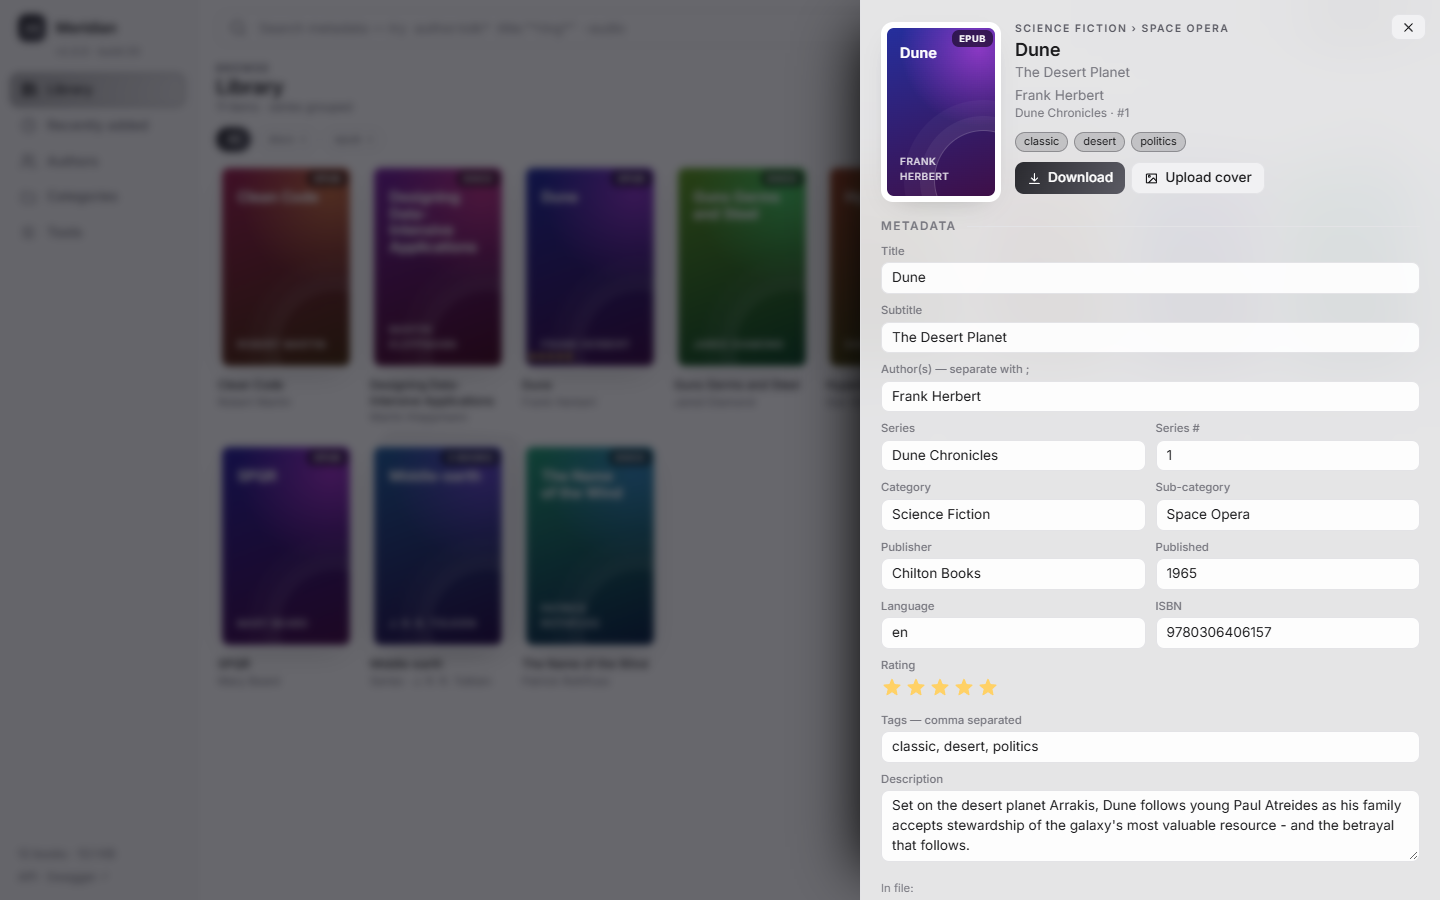
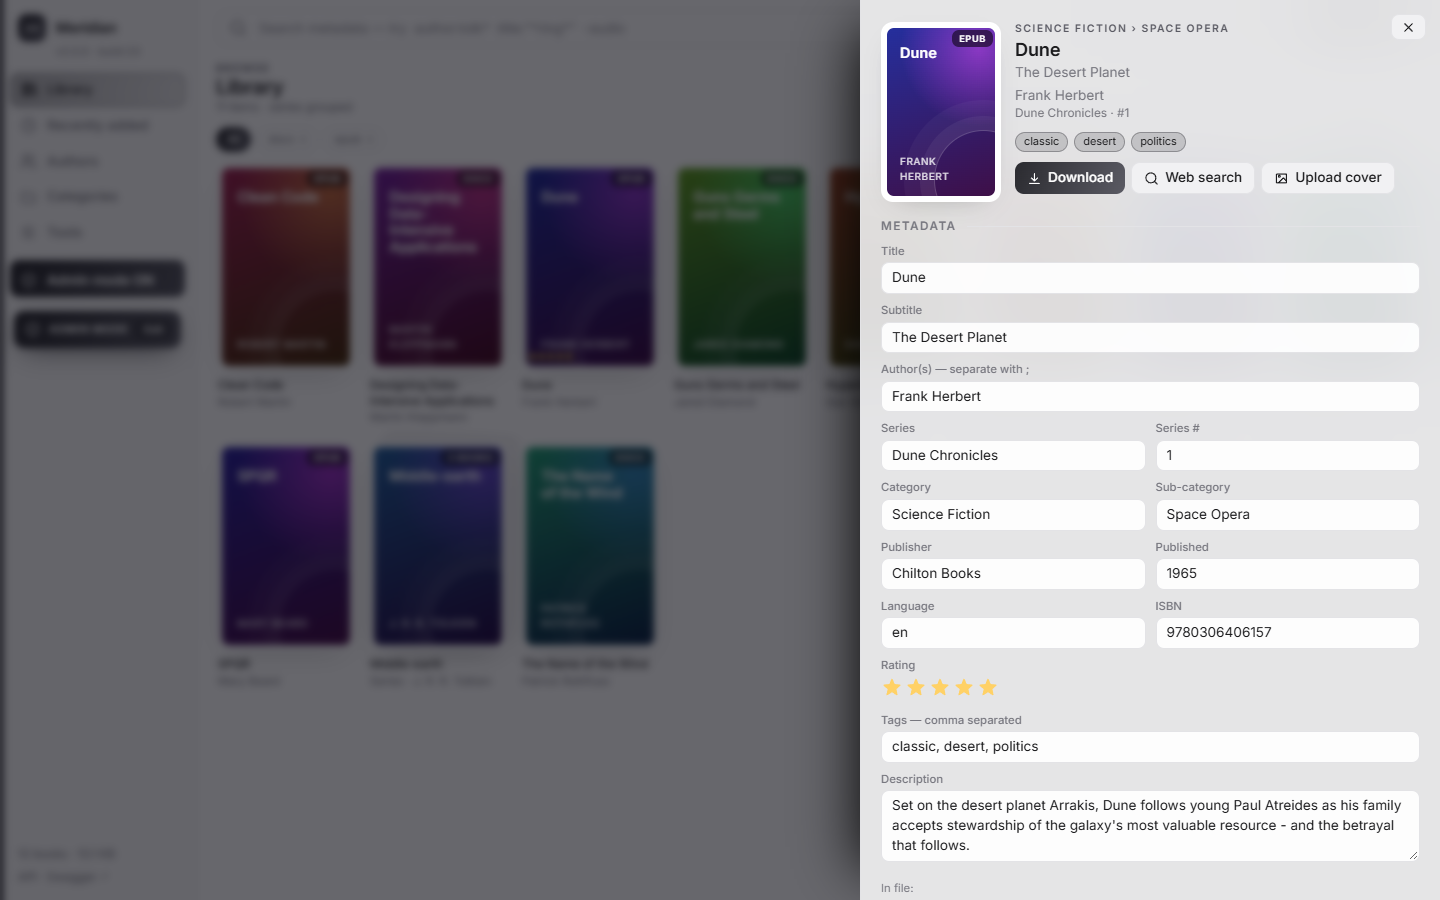
updated readme

Changed region(s): [[0.0, 0.0, 0.125, 1.0], [0.7812, 0.1867, 0.9688, 0.2178]]

diff --git a/app/static/css/app.css b/app/static/css/app.css
@@ -389,6 +389,7 @@ body.auth-on:not(.is-admin) .admin-only { display: none !important; }
 .admin-badge { display: flex; align-items: center; gap: 8px; margin: 0 4px; padding: 8px 10px; border-radius: 10px; color: var(--on-accent); font-weight: 700; font-size: 0.75rem; letter-spacing: .06em; white-space: nowrap;
   background: linear-gradient(110deg, var(--a1), var(--a2)); box-shadow: 0 8px 26px -10px var(--a1); }
 .admin-badge[hidden] { display: none; }
+.dialog h2 svg { width: 1.1em; height: 1.1em; vertical-align: -0.15em; margin-right: 4px; }
 .admin-badge svg { width: 17px; height: 17px; flex: none; }
 .admin-badge span { flex: 1; }
 .admin-badge button { all: unset; cursor: pointer; font-size: 0.6875rem; letter-spacing: .04em; padding: 3px 8px; border-radius: 7px; background: rgba(0,0,0,.22); }

diff --git a/scripts/capture_screenshots.py b/scripts/capture_screenshots.py
@@ -9,6 +9,9 @@ to run unless that library is empty:
     python scripts/capture_screenshots.py                       # terminal 2
 
 Options: --url http://127.0.0.1:8000   --browser msedge|chrome|chromium
+         --admin-user U --admin-password P   when the demo server has admin mode on (ADMIN_USER / ADMIN_PASSWORD):
+                                             the script logs in through the UI, so the shots show the full admin view,
+                                             and it also writes admin-login.png (the login dialog)
 """
 import argparse
 import sys
@@ -43,7 +46,7 @@ DUNE = dict(
 )
 
 
-def seed(api: str) -> None:
+def seed(api: str, auth=None) -> None:
     from tests.conftest import make_docx, make_epub  # tiny generated books; no real titles are shipped
 
     if httpx.get(f"{api}/stats").json()["books"]:
@@ -57,16 +60,16 @@ def seed(api: str) -> None:
         name = title.lower().replace(" ", "-") + "." + ext
         files.append(("files", (name, data)))
         paths.append(f"Books/{cat}/{name}")
-    r = httpx.post(f"{api}/books/upload-folder", files=files, data={"relative_paths": paths}, timeout=120)
+    r = httpx.post(f"{api}/books/upload-folder", files=files, data={"relative_paths": paths}, timeout=120, auth=auth)
     r.raise_for_status()
     ids = {b["title"]: b["id"] for b in httpx.get(f"{api}/books", params={"limit": 100}).json()["items"]}
     for _, title, _, series, idx in DEMO:
         extra = DUNE if title == "Dune" else {}
         if series or extra:
-            httpx.patch(f"{api}/books/{ids[title]}", json={"series": series, "series_index": idx, **extra}).raise_for_status()
+            httpx.patch(f"{api}/books/{ids[title]}", json={"series": series, "series_index": idx, **extra}, auth=auth).raise_for_status()
 
 
-def capture(base: str, browser: str) -> None:
+def capture(base: str, browser: str, creds=None) -> None:
     from playwright.sync_api import sync_playwright
 
     OUT.mkdir(parents=True, exist_ok=True)
@@ -79,6 +82,17 @@ def capture(base: str, browser: str) -> None:
             pg.goto(base + "/#/library")
             pg.wait_for_selector("mx-card")
             pg.wait_for_timeout(900)  # covers and web fonts
+            if creds:
+                pg.click(".admin-nav")
+                pg.fill("#lg-user", creds[0])
+                pg.fill("mx-login input[type=password]", creds[1])
+                if theme == "vanilla" and not (OUT / "_login_done").exists():
+                    pg.wait_for_timeout(300)
+                    pg.screenshot(path=str(OUT / "admin-login.png"))
+                    (OUT / "_login_done").write_text("")
+                pg.click("#lg-go")
+                pg.wait_for_selector("body.is-admin")
+                pg.wait_for_timeout(4500)  # let the "Admin mode on" toast fade out
             return pg
 
         pg = open_library("vanilla")
@@ -92,16 +106,20 @@ def capture(base: str, browser: str) -> None:
         pg.wait_for_timeout(700)
         pg.screenshot(path=str(OUT / "themes-settings.png"))
         launch.close()
+    (OUT / "_login_done").unlink(missing_ok=True)
 
 
 def main() -> None:
     ap = argparse.ArgumentParser(description=__doc__, formatter_class=argparse.RawDescriptionHelpFormatter)
     ap.add_argument("--url", default="http://127.0.0.1:8000")
     ap.add_argument("--browser", default="msedge", help="msedge, chrome or chromium (Playwright's own build)")
+    ap.add_argument("--admin-user", default="")
+    ap.add_argument("--admin-password", default="")
     a = ap.parse_args()
     base = a.url.rstrip("/")
-    seed(base + "/api")
-    capture(base, a.browser)
+    creds = (a.admin_user, a.admin_password) if a.admin_user else None
+    seed(base + "/api", creds)
+    capture(base, a.browser, creds)
     print("Wrote", ", ".join(sorted(f.name for f in OUT.glob("*.png"))), "to", OUT)
 
 

diff --git a/README.md b/README.md
@@ -8,8 +8,10 @@ Runs in one container, including on a Raspberry Pi.
 *One bullet per feature - add or remove lines as the app changes. Details live in [Features](#features).*
 
 **Library**
-* Upload files, whole folders (recursive) or `.zip` archives; EPUB, PDF, DOCX, MOBI, AZW3, FB2, TXT, CBZ and more
-* Plex-style cover wall with infinite scroll and series grouping, plus Authors, Categories and Recently added views
+* **Admin mode**: everyone can browse, but uploading, editing and deleting need a login (user and password from environment variables)
+* Upload files, whole folders (recursive) or `.zip` archives; EPUB, PDF, DOCX, MOBI, AZW3, FB2, TXT, CBZ and more; give a whole upload a category and a series
+* Plex-style cover wall with infinite scroll and series grouping (with a *Series only* switch), plus Authors, Categories and Recently added views
+* **Fast covers**: small `book-name_thumb.jpg` thumbnails, loaded after the tiles appear; *Tools > Refresh thumbnails* rebuilds them all
 * **List view**: a sortable table with every metadata column (choice remembered per browser)
 * **Bulk edit**: select many rows and change category, tags, author and more in one go, or run a clean-up (Title Case, find/replace, trim...) on a field, with a progress bar
 * **Delete** one book or many (with a clear warning first); the files and any emptied folders are removed from disk too
@@ -35,13 +37,13 @@ Runs in one container, including on a Raspberry Pi.
 **Deployment**
 * Docker Compose with a configurable data folder, port and run-as user; restarts after a reboot
 * Works fully offline: fonts and the Swagger page are bundled, so the app never contacts another host
-* No built-in authentication - put it behind a reverse proxy or VPN before exposing it
+* Admin mode protects changes only; reading is open, so put it behind a reverse proxy (HTTPS) or VPN before exposing it
 
 ## Screenshots
 
 <!-- Images live in docs/screenshots/. Regenerate them with scripts/capture_screenshots.py (see Development), or replace a file with the same name; no README edit needed. -->
 
-**Library** - the landing page: a cover wall with format filters, category and sort controls, and a search box that accepts wildcards and field scopes. Books without an embedded cover get a generated one, and a series (here *Middle-earth*) can be collapsed into one stacked tile.
+**Library** - the landing page: a cover wall with format filters, category and sort controls, and a search box that accepts wildcards and field scopes. Books without an embedded cover get a generated one, and a series (here *Middle-earth*) can be collapsed into one stacked tile, and the *Series only* switch hides books that are not in a series. The sidebar shows that admin mode is on.
 
 ![Library view with a wall of book covers and a stacked series tile](docs/screenshots/library.png)
 
@@ -52,6 +54,10 @@ Runs in one container, including on a Raspberry Pi.
 **Settings** - choose one of ten themes (shown here: Aurora, one of the dark ones), the font and text size, the cover border thickness, and whether series are grouped. Settings are saved per browser.
 
 ![Settings panel with theme picker, font, text size and cover border controls](docs/screenshots/themes-settings.png)
+
+**Admin mode** - without a login the app is read-only. Click *Admin mode* in the left menu and sign in with the user and password you set in the environment; the menu then shows an *ADMIN MODE* badge.
+
+![Admin mode login dialog](docs/screenshots/admin-login.png)
 
 ## Setting up the data folder
 
@@ -168,11 +174,12 @@ mkdir -p data
 
 | Requirement | How it works |
 |---|---|
-| Upload EPUB, PDF, DOCX, MOBI, AZW3, FB2, TXT, CBZ… | `POST /api/books/upload` (see `app/config.py` for the full list) |
-| Upload whole folders recursively | `POST /api/books/upload-folder` takes files plus their relative paths (the UI uses the browser directory picker or drag-and-drop of folders). `.zip` archives are expanded recursively. `POST /api/import` imports a folder already on the server. Folder names can become categories. |
+| Admin mode (access control) | Reading is open. Every route that changes the library (upload, edit, rename, covers, delete, bulk edit, cleanup, server import, thumbnail rebuild) needs admin mode, otherwise it answers `401`. Set `ADMIN_USER` and `ADMIN_PASSWORD` (`MERIDIAN_ADMIN_USER` / `MERIDIAN_ADMIN_PASSWORD` in `.env` for Docker Compose); if either is empty, nothing is restricted. In the UI use *Admin mode* in the left menu (12-hour session, `Exit` to leave). Scripts and Swagger's **Authorize** button use the same user and password as HTTP Basic credentials; `POST /api/auth/login` sets the cookie the UI uses. Five wrong passwords lock a client out for a minute. |
+| Upload EPUB, PDF, DOCX, MOBI, AZW3, FB2, TXT, CBZ… | `POST /api/books/upload` (see `app/config.py` for the full list). The Add books dialog can also set a **category** and a **series** for the whole upload (`category`, `series` form fields); a series given here replaces any series the file already has. |
+| Upload whole folders recursively | `POST /api/books/upload-folder` takes files plus their relative paths (the UI uses the browser directory picker or drag-and-drop of folders; Chrome asks "Upload N files to this site?" for the picker, which a page cannot turn off, while dropping a folder does not). `.zip` archives are expanded recursively. `POST /api/import` imports a folder already on the server. Folder names can become categories. |
 | Import metadata JSON | Upload `*.json` (e.g. an exported `book-name-info.json`) alone, in a folder, in a `.zip`, or from the server import folder. It is matched to the book by `id`, then title (case-insensitive), then file name. **Books are always processed before JSON files.** Empty fields are filled in; if the JSON would change a value the book already has, nothing is applied and you get a `warning` listing each field's current vs. imported value. Tick "overwrite" (`overwrite_json=true`) to apply anyway. A category that was merely inferred from the upload folder name does not count as an existing value. |
 | Replace the cover | `PUT /api/books/{id}/cover` (or "Upload cover" in the book panel). Saved as `book-name-cover.jpg` in the book's folder, next to `book-name-info.json`, and always shown instead of the embedded cover. The book file is untouched, the cover follows the file on rename and is included in the ZIP export. `DELETE /api/books/{id}/cover` reverts to the embedded cover. |
-| Plex-like browser | Library is the landing page (format/category/sort filters, infinite scroll, series shown as one stacked tile that opens the series), Recently added, Authors, Categories, generated covers when a book has none, detail drawer |
+| Plex-like browser | Library is the landing page (format/category/sort filters, a *Series only* switch (`in_series=true`), infinite scroll, series shown as one stacked tile that opens the series), Recently added, Authors, Categories, generated covers when a book has none, detail drawer |
 | List view and bulk edit | The grid/list switch above the library toggles a table with one column per metadata field; click a heading to sort by it. A coloured dot per row shows the cover's predominant colour (`GET /api/books/colors`). Tick rows (shift-click for a range, or "Select all N" for everything matching the current filter) and press **Bulk edit** to set category, sub-category, tags (add or replace), author, series, publisher, published, language or rating on all of them. It is saved in batches with a percent-complete bar; **Stop** cancels after the current batch. API: `POST /api/books/bulk-update`. The **Advanced** tab of the same dialog cleans up one field instead: pick the field, then an operation - lowercase, uppercase, capitalize, Title Case, replace words (leave "replace with" empty to remove them; whole words and match-case options), collapse multiple spaces, or trim - and press **Run**. The dialog closes and the progress bar appears above the table. Tags are transformed tag by tag, and books that would not change are not rewritten. API: `POST /api/books/bulk-transform`. |
 | Metadata search with wildcards | `GET /api/books?q=…` - `*` and `?` wildcards, `author:`/`title:`/`tag:`/`category:`/`format:`/`series:`/`isbn:`/`lang:`/`year:`/`file:` scopes, `"phrases"`, `-exclusions`. Example: `author:tolk* title:"*ring*" -format:pdf` |
 | UUID per book + MD5 duplicate control | UUID4 assigned at upload. The MD5 of the upload is unique-indexed; identical content is rejected. The hash is kept even after metadata is written into a file, so the original is still recognised. `GET /api/duplicates` and `POST /api/cleanup` (dry-run by default) remove duplicates, orphan folders and dangling records. |
@@ -181,6 +188,7 @@ mkdir -p data
 | Metadata editing | `PATCH /api/books/{id}` (many books at once: `POST /api/books/bulk-update`, `POST /api/books/bulk-transform`). EPUB, PDF and DOCX get what they can hold **inside the file**; everything else goes into `book-name-info.json` next to the book. The response's `storage` field shows what went where. |
 | Web search | **Web search** in the book panel opens a new browser tab with a web search for the book's quoted title, authors and ISBN (or the word "book" when there is no ISBN), taken from the form as it is right now, including unsaved edits. It is an ordinary link opened by your click: nothing is sent anywhere until you press it, and the app itself never contacts the search site. |
 | Delete books | **Book panel > Delete book**, or tick rows in list view and press **Delete** in the bar above the table. A warning dialog explains that it is permanent and lists what will go (for 10 or more books you must also type `delete`); Cancel has the focus, so Enter does not delete. Deleting removes the record **and** the book's folder on disk - the book file, cover and `-info.json` sidecar - then any parent folders left empty. Bulk deletes run in batches with a progress bar and Stop button, and report the space freed. A folder that cannot be removed (for example a file locked by another program) is reported, and **Tools > Duplicates & cleanup** sweeps up such leftovers. API: `DELETE /api/books/{id}`, `POST /api/books/bulk-delete`. |
+| Thumbnails | Each book gets a small `book-name_thumb.jpg` (max 400 px high) next to its file, made from the custom cover if there is one, else the embedded cover. New uploads and cover changes update it automatically; **Tools > Refresh thumbnails** (`POST /api/thumbnails/rebuild`, progress at `GET /api/thumbnails/rebuild`) scans the whole library and rewrites all of them. Tiles show the generated cover first and fetch the thumbnail (`GET /api/books/{id}/thumb`) when they come into view; the book panel still shows the full cover. |
 | Title ≠ filename | Editing the title never touches the file name. `POST /api/books/{id}/rename` renames the file (and its sidecar) separately. |
 | Themes and fonts | Ten themes (Vanilla, the default, plus Aurora, Neon, Sunset, Ocean, Emerald, Cyber, Paper, Blossom, Lavender), eleven open-source fonts and the system font, text size 80-130% (100% = 14.5px), cover border thickness and series grouping, all in Settings (sliders icon, top right) and saved per browser. The fonts are bundled with the app (Latin subset), so nothing is downloaded when you switch. `GET /api/books?group_series=true` returns the grouped view (`series_count` on each entry; filter with `series=` to list one series). |
 
@@ -231,26 +239,27 @@ The UI fonts (Latin subset, SIL Open Font License; licences in `app/static/fonts
 Regenerate the README screenshots against an empty throwaway instance (the script adds demo books and refuses to run on a library that already has books):
 
 ```bash
-DATA_DIR=./.demo-data uvicorn app.main:app --port 8000     # terminal 1
+DATA_DIR=./.demo-data uvicorn app.main:app --port 8000     # terminal 1 (add ADMIN_USER=a ADMIN_PASSWORD=b to also capture admin mode,
+                                                           # then pass --admin-user a --admin-password b to the script)
 pip install playwright                                     # once (uses an installed Edge/Chrome; or `playwright install chromium` and pass --browser chromium)
 python scripts/capture_screenshots.py                      # terminal 2 -> docs/screenshots/*.png
 ```
 
 ### Configuration and layout
 
-Environment: `DATA_DIR` (default `./data`), `IMPORT_DIR` (default `./import`), `MAX_ARCHIVE_BYTES` (see [Setting up the data folder](#setting-up-the-data-folder) for the Compose variables).
+Environment: `DATA_DIR` (default `./data`), `IMPORT_DIR` (default `./import`), `MAX_ARCHIVE_BYTES`, `ADMIN_USER` and `ADMIN_PASSWORD` (admin mode; both empty = no access control) (see [Setting up the data folder](#setting-up-the-data-folder) for the Compose variables).
 
-Layout: `app/service.py` (ingest, edit, search, cleanup), `app/metadata.py` (EPUB/PDF/DOCX read & write), `app/search.py` (query parser), `app/routers/` (API), `app/static/` (UI - plain ES modules and native web components, no build step).
+Layout: `app/service.py` (ingest, edit, search, cleanup), `app/metadata.py` (EPUB/PDF/DOCX read & write), `app/search.py` (query parser), `app/auth.py` (admin mode), `app/routers/` (API), `app/static/` (UI - plain ES modules and native web components, no build step).
 
 ## Notes
 
 * **The app makes no outside requests.** The UI, the fonts and the Swagger page at `/docs` are all served by the app itself (the only link to another site is the book panel's **Web search** button, which opens a new tab when *you* click it), and every page carries a `Content-Security-Policy` that tells the browser not to talk to any other host (`tests/test_offline.py` guards this). ReDoc is therefore not offered: it insists on loading a badge image from another site.
 * Metadata is never looked up online: it is whatever is inside the files, an imported JSON, or what you type yourself (one book at a time, or many at once with Bulk edit).
-* No authentication is built in - put it behind a reverse proxy or VPN before exposing it.
+* Admin mode only controls who may change the library; anyone who can reach the app can read and download every book. Put it behind a reverse proxy (HTTPS) or VPN before exposing it.
 
 ## Legal
 
 * **Licence:** the project is MIT-licensed ([LICENSE](LICENSE)). The bundled fonts (SIL OFL), Swagger UI (Apache-2.0), icon styles and every Python dependency are listed with their licences in [THIRD_PARTY_NOTICES.md](THIRD_PARTY_NOTICES.md).
 * **No copyleft dependencies.** PDF metadata and covers use pypdf (BSD) and pypdfium2 (Apache-2.0 / BSD), so nothing forces your copy of the app, or an image you build from it, under stricter terms than MIT.
-* **Your books:** Meridian stores and serves the files you give it and does nothing about copyright or DRM - it neither removes DRM nor supplies content. Keep only books you have the right to keep, and because there is no built-in authentication, do not expose a library to the public internet.
+* **Your books:** Meridian stores and serves the files you give it and does nothing about copyright or DRM - it neither removes DRM nor supplies content. Keep only books you have the right to keep, and because reading is open to everyone (admin mode only guards changes), do not expose a library to the public internet.
 * **Trademarks:** Plex, Raspberry Pi, Docker and other names are trademarks of their owners and are used only to describe compatibility or style; the project is not affiliated with or endorsed by them.
